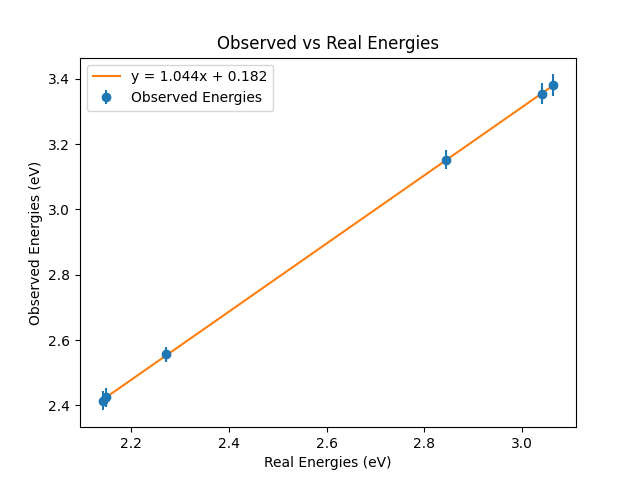
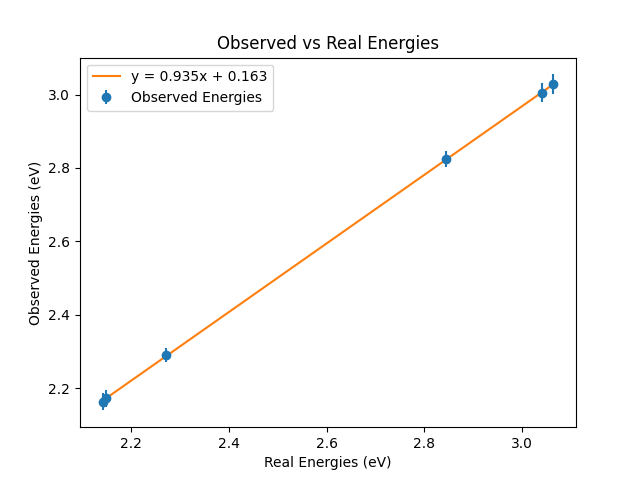
fixed values

diff --git a/Results/Sections/Part1/Part1.tex b/Results/Sections/Part1/Part1.tex
@@ -1,29 +1,56 @@
 
 \subsection{Part 1}
 
-\begin{adjustbox}{width=1.5\textwidth, center}
-    \begin{tabular}{|c|c|c|c|c|c|c|}
-        \hline Color              & Violet           & Violet           & Blue             & Green            & Yellow           & Yellow       \\
-        \hline \begin{tabular}{c}
-                   Expected $\lambda$, \\
-                   $\mathrm{nm}$
-               \end{tabular} & 404.6565         & 407.7837         & 435.8328         & 546.0735         & 576.9598         & 579.0663          \\
-        \hline \begin{tabular}{c}
-                   Expected energies, \\
-                   $\mathrm{eV}$
-               \end{tabular} & 3.064            & 3.040            & 2.845            & 2.270            & 2.149            & 2.141             \\
-        \hline \begin{tabular}{c}
-                   Experiment $\lambda$, \\
-                   $\mathrm{nm}$
-               \end{tabular} & 409.4 $\pm$ 0.05 & 412.6 $\pm$ 0.05 & 439.0 $\pm$ 0.05 & 541.4 $\pm$ 0.05 & 570.9 $\pm$ 0.05 & 573.3  $\pm$ 0.05 \\
-        \hline \begin{tabular}{c}
-                   Experiment energy, \\
-                   $\mathrm{eV}$
-               \end{tabular} & 3.028$\pm$0.000  & 3.005$\pm$0.000  & 2.824$\pm$0.000  & 2.290$\pm$0.000  & 2.172$\pm$0.000  & 2.163$\pm$0.000   \\
-        \hline
-    \end{tabular}
-\end{adjustbox}
+In this part we begin by comparing the expected and observed wavelengths and energies of the spectral lines of the hydrogen atom. The expected wavelengths and energies are calculated using the Rydberg formula, and the observed values are obtained from the spectrometer. The results are shown in Table \ref{tab:Part1_expected_vs_observed} and the plots in Figures \ref{fig:Part1wave} and \ref{fig:Part1energy}.
+The residuals are shown in Figures \ref{fig:Part1waveU} and \ref{fig:Part1energyU} respectively.
 
+The observed wavelengths and energies to do not fall within the uncertainty range of the real values, however, most of the values do fit within 2 uncertainty intervals. There seem to be a fixed offset between the real and observed values. This can be also also seen in the linear fit equations in figures \ref{fig:Part1wave} and \ref{fig:Part1energy}.
+This could indicate that the spectrometer is not properly calibrated.
+
+\begin{table}
+    \begin{adjustbox}{width=1.5\textwidth, center}
+        \begin{tabular}{|c|c|c|c|c|c|c|}
+            \hline Color              & Violet            & Violet            & Blue              & Green             & Yellow            & Yellow        \\
+            \hline \begin{tabular}{c}
+                       Expected $\lambda$, \\
+                       $\mathrm{nm}$
+                   \end{tabular} & 404.6565          & 407.7837          & 435.8328          & 546.0735          & 576.9598          & 579.0663           \\
+            \hline \begin{tabular}{c}
+                       Expected energies, \\
+                       $\mathrm{eV}$
+                   \end{tabular} & 3.064             & 3.040             & 2.845             & 2.270             & 2.149             & 2.141              \\
+            \hline \begin{tabular}{c}
+                       Experiment $\lambda$, \\
+                       $\mathrm{nm}$
+                   \end{tabular} & 409.40 $\pm$ 3.58 & 412.60 $\pm$ 3.58 & 439.00 $\pm$ 3.58 & 541.40 $\pm$ 4.48 & 570.90 $\pm$ 6.27 & 573.30  $\pm$ 6.27 \\
+            \hline \begin{tabular}{c}
+                       Experiment energy, \\
+                       $\mathrm{eV}$
+                   \end{tabular} & 3.03$\pm$0.03     & 3.00$\pm$0.03     & 2.82$\pm$0.02     & 2.29$\pm$0.02     & 2.17$\pm$0.02     & 2.16$\pm$0.02      \\
+            \hline
+        \end{tabular}
+    \end{adjustbox}
+    \caption{Observed and expected wavelengths and energies of the spectral lines of the hydrogen atom.}
+    \label{tab:Part1_expected_vs_observed}
+
+\end{table}
+
+\subsubsection{Expected vs observed wavelengths}
+
+The best line fit for the expected vs observed wavelengths is given by equation \ref{eq:Part1wave}, where $\lambda_{\text {exp }}$ is the observed wavelength and $\lambda_{\text {th }}$ is the expected wavelength.
+
+\begin{equation}
+    \lambda_{\text {exp }} = (0.839 \pm 0.002) \lambda_{\text {th }} + (27.508 \pm 0.9) \text{nm}
+    \label{eq:Part1wave}
+\end{equation}
+
+The residuals plot can be seen in Figure \ref{fig:Part1waveU}. The residuals seem to exhibit a random pattern, which is a indication that the fit is good. At each point, the line of best fit is within
+the uncertainty range of the observed value.
+
+\begin{equation}
+    \chi^2 = 1.088 \qquad
+    \frac{\chi^2}{v} = 0.272
+\end{equation}
 
 % Add plots and residuals
 \begin{figure}[H]
@@ -41,10 +68,24 @@
     \label{fig:Part1waveU}
 \end{figure}
 
-line: 0.8387695642338823 ± 0.001864112875415517 x + 27.508082396595857 ± 0.9278156049052266
-Chi squared: 1.087797528170102
-Reduced chi squared: 0.2719493820425255
 
+
+\subsubsection{Expected vs observed energies}
+
+The best line fit for the expected vs observed wavelengths is given by equation \ref{eq:Part1eng}, where $E_{\text {exp }}$ is the observed wavelength and $E_{\text {th }}$ is the expected wavelength.
+
+\begin{equation}
+    E_{\text {exp }} = (1.0439 \pm 0.003) E_{\text {th }} + (0.1818 \pm 0.007) \text{eV}
+    \label{eq:Part1eng}
+\end{equation}
+
+The residuals plot can be seen in Figure \ref{fig:Part1waveU}. Again, the residuals seem to exhibit a random pattern, which is a indication that the fit is good. At each point, the line of best fit is within
+the uncertainty range of the observed value.
+
+\begin{equation}
+    \chi^2 = 1.103 \qquad
+    \frac{\chi^2}{v} = 0.275
+\end{equation}
 
 
 \begin{figure}[H]
@@ -61,6 +102,12 @@ Reduced chi squared: 0.2719493820425255
     \label{fig:Part1energyU}
 \end{figure}
 
-line: 1.0439270677118886 ± 0.0028012430069567747 x + 0.18182109169387295 ± 0.007329939614454457
-Chi squared: 1.1027736664663765
-Reduced chi squared: 0.27569341661659413
+
+
+% line: 0.8387695642338823 ± 0.001864112875415517 x + 27.508082396595857 ± 0.9278156049052266
+% Chi squared: 1.087797528170102
+% Reduced chi squared: 0.2719493820425255
+
+% line: 1.0439270677118886 ± 0.0028012430069567747 x + 0.18182109169387295 ± 0.007329939614454457
+% Chi squared: 1.1027736664663765
+% Reduced chi squared: 0.27569341661659413

diff --git a/Results/Sections/Part1/Part1.py b/Results/Sections/Part1/Part1.py
@@ -21,11 +21,11 @@ real = np.array([404.6565, 407.7837, 435.8328, 546.0735, 576.9598, 579.0663])
 pixel_to_nm = 0.89585666
 
 # Define the observed values in pixels and their uncertainties
-observed_pixels = np.array([409.4, 412.6, 439, 541.4, 570.9, 573.3])
+observed = np.array([409.4, 412.6, 439, 541.4, 570.9, 573.3])
 uncertainties_pixels = np.array([4, 4, 4, 5, 7, 7])
 
 # Convert the observed values and their uncertainties to nm
-observed_nm = observed_pixels * pixel_to_nm
+observed_nm = observed
 uncertainties_nm = uncertainties_pixels * pixel_to_nm
 
 # add errors to observed data
@@ -34,6 +34,11 @@ ERROR = 0.05
 # Create a uarray with the observed values and their uncertainties
 observed = np.array([ufloat(n, max(u, ERROR))
                     for n, u in zip(observed_nm, uncertainties_nm)])
+
+# print the wavelength values with uncertanties:
+print("Wavelengths with uncertainties ==============")
+for entry in observed:
+    print(f"{entry.nominal_value:.2f} \pm {entry.std_dev:.2f}")
 
 
 # calculate energies:
@@ -45,6 +50,11 @@ real_energies = np.array(
     [H * C / (real[i] * 1e-9) / EV for i in range(len(real))])
 observed_energies = np.array([H * C / (observed[i] * 1e-9) / EV
                               for i in range(len(observed))])
+
+# print the energy values for each reference observation
+print("Energy with uncertainties ==============")
+for entry in observed_energies:
+    print(f"{entry.nominal_value:.2f} \pm {entry.std_dev:.2f}")
 
 observed_energies_val = [val.nominal_value for val in observed_energies]
 

diff --git a/Results/Sections/Part2/Part2.tex b/Results/Sections/Part2/Part2.tex
@@ -2,6 +2,16 @@
 \subsection{Part 2: Hydrogen spectrum}
 
 
+% Why may the relative intensities of the lines vary for the same atoms in the discharge tube from experiment to experiment?
+
+The relative intensities of the lines may vary for the same atoms in the discharge tube from experiment to experiment due to the fact that the atoms are not in the same energy state.
+The atoms in the discharge tube are excited by the electric field, and the energy levels of the atoms are quantized.
+This means that the atoms can only have certain energy levels, and the energy levels are not continuous.
+The atoms can only emit photons when they transition from one energy level to another, and the energy of the emitted photon is equal to the energy difference between the two energy levels.
+The relative intensities of the lines depend on the probability of the atoms being in a certain energy state, and the probability of the atoms being in a certain energy state depends on the temperature of the discharge tube,
+the pressure of the discharge tube, and the electric field strength. [add source: https://www.physics.utoronto.ca/~phy293lab/experiments/rydberg.pdf, https://pubmed.ncbi.nlm.nih.gov/1489915/] If the temperature of the discharge tube, the pressure of the discharge tube, or the electric field strength changes, then the relative intensities of the lines will change.
+This is why the relative intensities of the lines may vary for the same atoms in the discharge tube from experiment to experiment.
+
 \begin{table}[h]
 
     \centering
